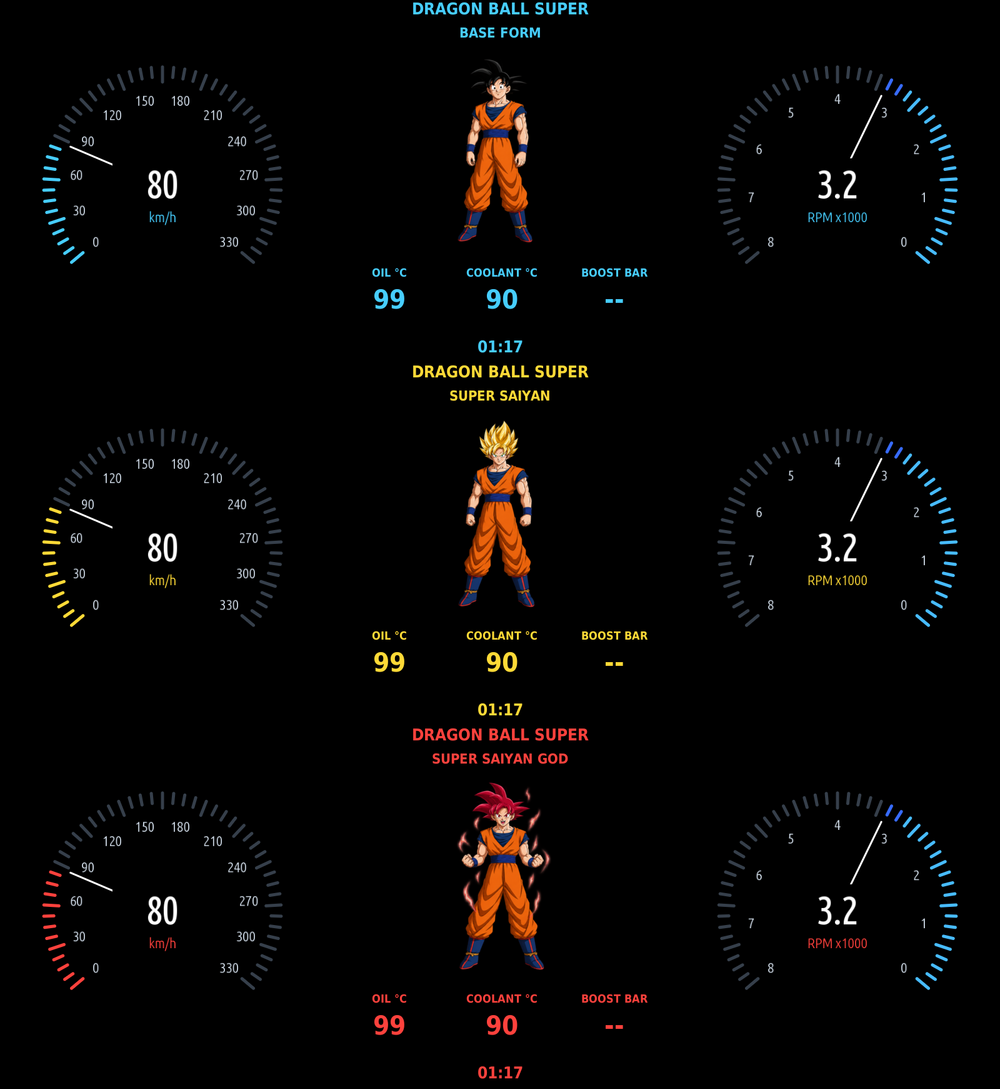
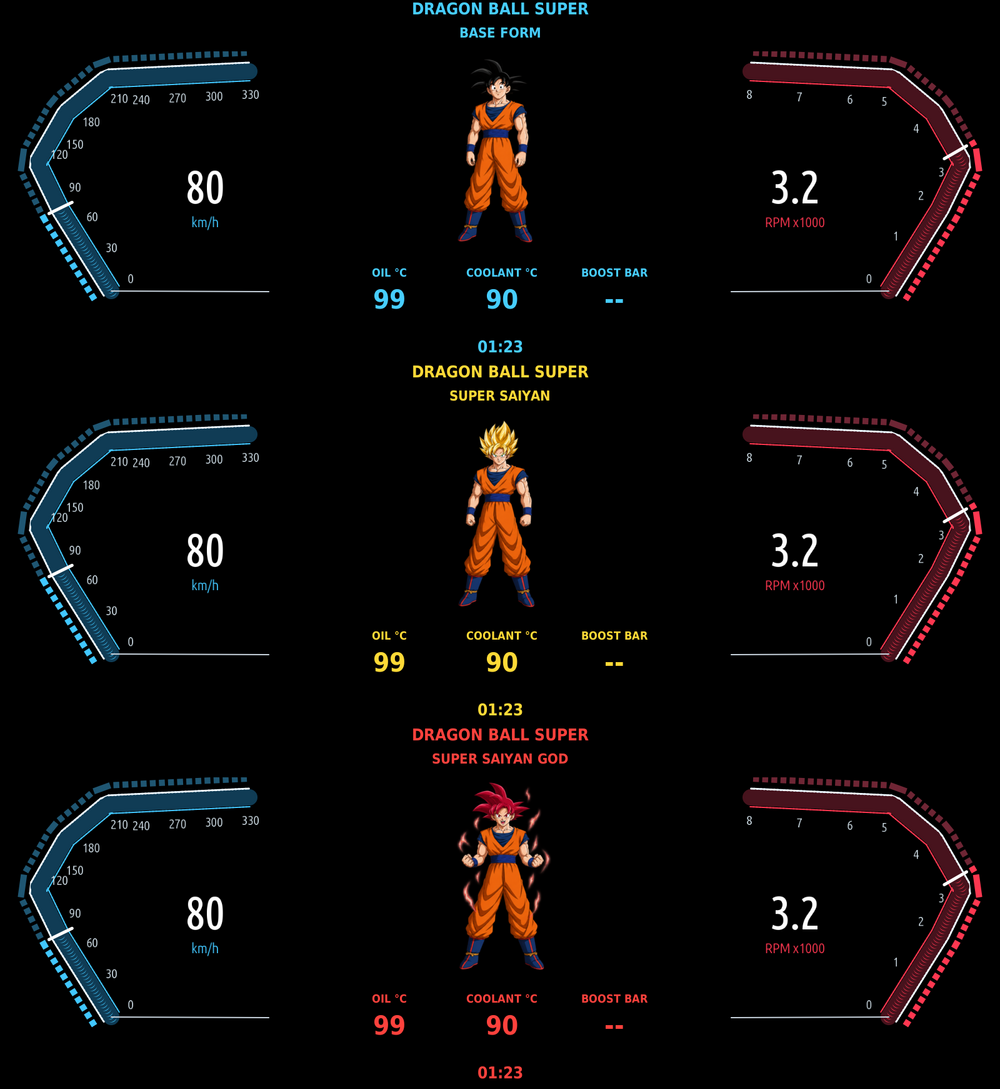
Dragon Ball Super 0.2.1: angular blue speed and red RPM rails inspired by reference

diff --git a/apps/dragon_super/dragon_gauges.js b/apps/dragon_super/dragon_gauges.js
@@ -1,32 +1,51 @@
 'use strict';
 const { Canvas } = require('./kit/canvas');
-function paint(part, raw, theme) {
+
+// An open, angular instrument rail, reflected for the right-hand tachometer.
+const RAIL = [[178, 383], [96, 252], [60, 178], [106, 98], [172, 43], [399, 32]];
+const LENGTHS = RAIL.slice(1).map((p, i) => Math.hypot(p[0] - RAIL[i][0], p[1] - RAIL[i][1]));
+const TOTAL = LENGTHS.reduce((a, b) => a + b, 0);
+function point(ratio, inset, mirrored) {
+    let distance = Math.max(0, Math.min(1, ratio)) * TOTAL, i = 0;
+    while (i < LENGTHS.length - 1 && distance > LENGTHS[i]) distance -= LENGTHS[i++];
+    const a = RAIL[i], b = RAIL[i + 1], length = LENGTHS[i], t = distance / length;
+    const nx = -(b[1] - a[1]) / length, ny = (b[0] - a[0]) / length;
+    const x = a[0] + (b[0] - a[0]) * t + nx * inset;
+    return [mirrored ? 520 - x : x, a[1] + (b[1] - a[1]) * t + ny * inset];
+}
+function paint(part, raw) {
     const cv = new Canvas(part.w, part.h);
     const rpm = part.signal === 'rpm', valid = Number.isFinite(raw), value = valid ? Math.max(0, raw) : 0;
-    const cx = part.w / 2, cy = 215, radius = 190;
-    const point = (ratio, r) => {
-        const angle = (140 + ratio * 260) * Math.PI / 180;
-        const side = rpm ? -1 : 1;
-        return [cx + side * Math.cos(angle) * r, cy + Math.sin(angle) * r];
-    };
-    for (let i = 0; i <= 48; i++) {
-        const ratio = i / 48, a = point(ratio, radius), b = point(ratio, radius - (i % 4 === 0 ? 24 : 16));
-        const active = valid && ratio <= value / part.max;
-        const color = rpm ? (ratio >= 0.75 ? '#ff4545' : ratio >= 0.375 ? '#386cff' : '#48bcff') : theme.fg;
-        cv.line(a[0], a[1], b[0], b[1], 5, active ? color : [115, 135, 160, 120]);
+    const color = rpm ? '#ff3851' : '#42c7ff';
+    const line = (a, b, width, ink) => cv.line(a[0], a[1], b[0], b[1], width, ink);
+    // Close-set strips form the beveled rail and its blue/red illuminated channel.
+    for (let i = 0; i < 120; i++) {
+        const a = i / 120, b = (i + 1) / 120;
+        line(point(a, 0, rpm), point(b, 0, rpm), 26, rpm ? '#47131d' : '#103c55');
+        line(point(a, -14, rpm), point(b, -14, rpm), 3, '#edf8ff');
+        line(point(a, 15, rpm), point(b, 15, rpm), 2, color);
+        if (valid && a <= value / part.max) line(point(a, 0, rpm), point(b, 0, rpm), 17, color);
+    }
+    // Discrete blocks sit outside the rail, as on the reference's two side scales.
+    for (let i = 0; i < 44; i++) {
+        const a = point(i / 44 + 0.004, -30, rpm), b = point((i + 1) / 44 - 0.004, -30, rpm);
+        const length = Math.hypot(b[0] - a[0], b[1] - a[1]);
+        const nx = -(b[1] - a[1]) / length * 5, ny = (b[0] - a[0]) / length * 5;
+        cv.quad([[a[0] + nx, a[1] + ny], [b[0] + nx, b[1] + ny],
+            [b[0] - nx, b[1] - ny], [a[0] - nx, a[1] - ny]],
+            valid && i / 44 <= value / part.max ? color : rpm ? '#6f2635' : '#205773');
     }
     const count = rpm ? 8 : 11;
     for (let i = 0; i <= count; i++) {
-        const p = point(i / count, radius - 51);
-        cv.text(String(rpm ? i : i * 30), p[0], p[1] + 8, 22, '#dbe7f4', { align: 'center' });
+        const p = point(i / count, 37, rpm);
+        cv.text(String(rpm ? i : i * 30), p[0], p[1] + 7, 20, '#d9e8f1', { align: 'center' });
     }
-    if (valid) {
-        const p = point(Math.min(1, value / part.max), radius - 30);
-        cv.line(cx, cy, p[0], p[1], 3, '#ffffff');
-    }
-    cv.fillRect(cx - 80, cy - 44, 160, 100, '#000000');
-    cv.text(valid ? (rpm ? (value / 1000).toFixed(1) : String(Math.round(value))) : '--', cx, cy + 20, 62, '#ffffff', { align: 'center', font: 'num' });
-    cv.text(rpm ? 'RPM x1000' : 'km/h', cx, cy + 58, 22, theme.fg, { align: 'center' });
+    if (valid) line(point(value / part.max, -19, rpm), point(value / part.max, 22, rpm), 5, '#ffffff');
+    const x = rpm ? 192 : 328;
+    cv.text(valid ? (rpm ? (value / 1000).toFixed(1) : String(Math.round(value))) : '--', x, 243, 74, '#ffffff', { align: 'center', font: 'num' });
+    cv.text(rpm ? 'RPM x1000' : 'km/h', x, 281, 22, color, { align: 'center' });
+    const a = point(0, 0, rpm), end = [rpm ? 90 : 430, 384];
+    line(a, end, 2, '#c7d2dc');
     return Buffer.from(cv.d);
 }
 module.exports = { paint };
